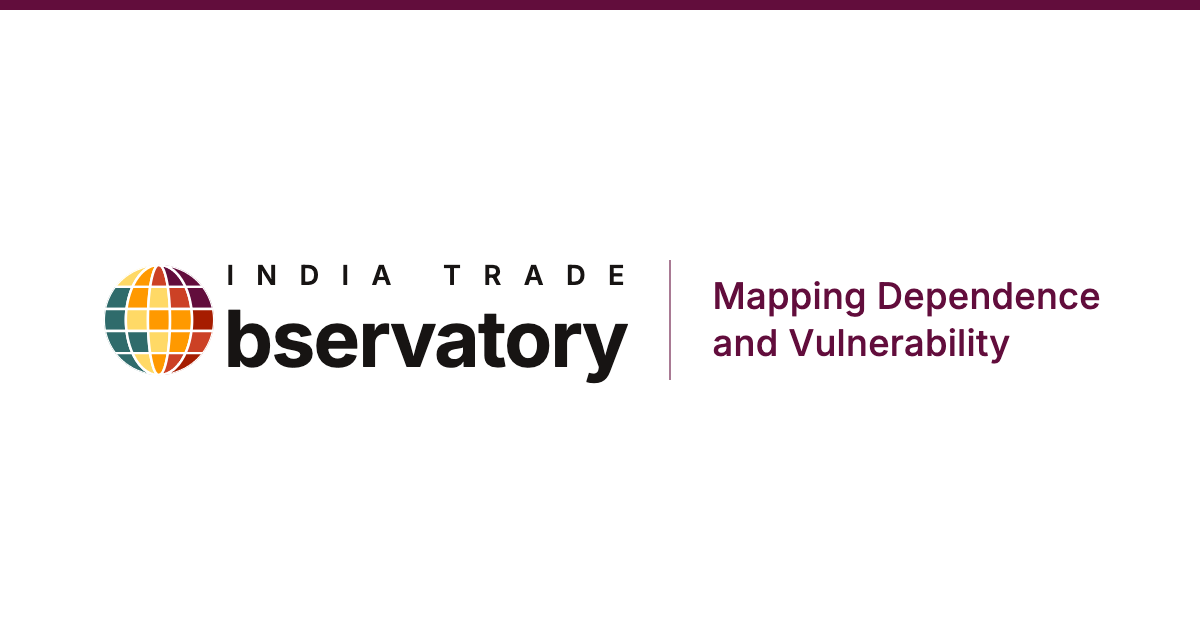
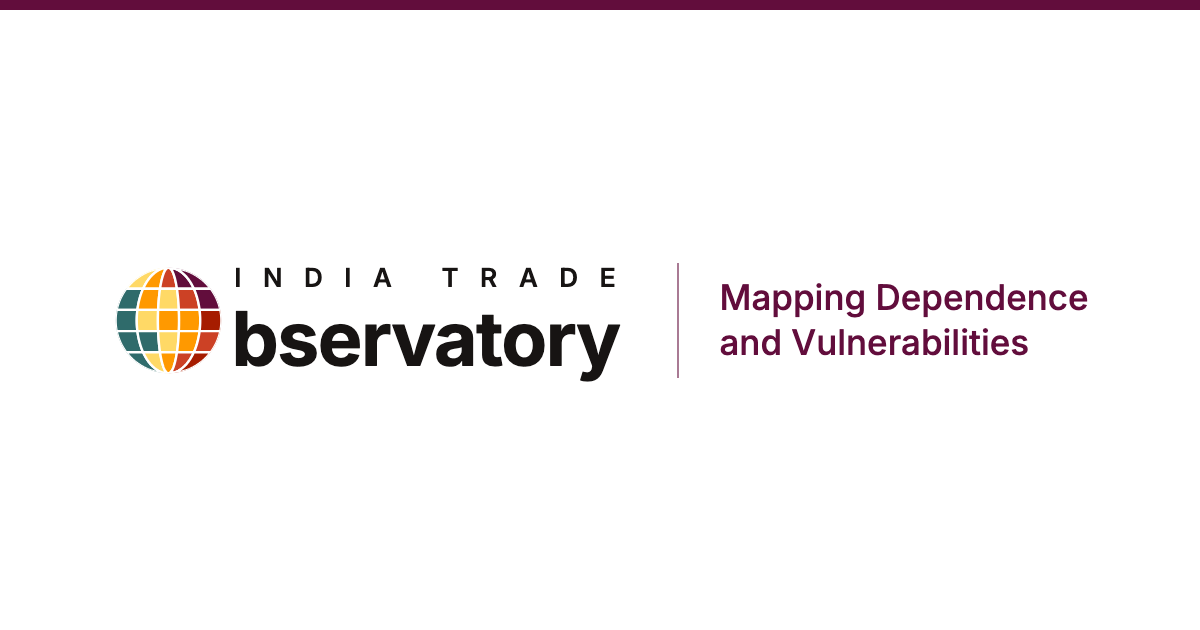
Simpler Matrix Builder, no corner diagonals, RIF after Dependence, new tagline
- Matrix Builder: shorter text, legend beside the matrix, row labels left-aligned
- Matrix corners drop the diagonal; arrows mark rows and columns
- Remove the grade-movement table; About sidebar keeps only About links
- Explorer columns follow the method's steps; RIF column drops the channel tag
- Tagline: Mapping Dependence and Vulnerabilities (header, meta, social image)

Changed region(s): [[0.0617, 0.4222, 0.5242, 0.6032], [0.555, 0.4222, 0.925, 0.6032], [0.37, 0.4222, 0.5242, 0.4524]]

diff --git a/index.html b/index.html
@@ -4,7 +4,7 @@
 <meta charset="utf-8">
 <meta name="viewport" content="width=device-width, initial-scale=1">
 <meta name="google-site-verification" content="IoENYTUO_sZUPHnm7L9wEyq4YKLa9hCeRD2Jo0gU4xk" />
-<title>India Trade Observatory: Mapping Dependence and Vulnerability</title>
+<title>India Trade Observatory: Mapping Dependence and Vulnerabilities</title>
 <meta name="description" content="Item-by-item map of India's trade dependence on China: where that dependence potentially renders India strategically or critically vulnerable, across 9,500+ HS8 imports, and options for de-risking. By Amit Kumar, Takshashila Institution.">
 <meta name="keywords" content="India China trade, India-China trade dependence, trade dependence, import dependence on China, trade vulnerability, strategic vulnerability, critical vulnerability, de-risking, de-risking India's trade with China, RIF-PCI, HS8">
 <meta name="author" content="Amit Kumar">
@@ -14,20 +14,20 @@
 <link rel="apple-touch-icon" href="img/apple-touch-icon.png">
 <link rel="canonical" href="https://indiatradeobservatory.amitkumar-ak.com/">
 <meta property="og:type" content="website">
-<meta property="og:title" content="India Trade Observatory: Mapping Dependence and Vulnerability">
+<meta property="og:title" content="India Trade Observatory: Mapping Dependence and Vulnerabilities">
 <meta property="og:description" content="Mapping India's dependence and vulnerabilities in trade with China, item by item, for crafting de-risking strategies.">
 <meta property="og:url" content="https://indiatradeobservatory.amitkumar-ak.com/">
 <meta property="og:site_name" content="India Trade Observatory">
 <meta property="og:image" content="https://indiatradeobservatory.amitkumar-ak.com/img/og-image.png">
 <meta property="og:image:width" content="1200">
 <meta property="og:image:height" content="630">
-<meta property="og:image:alt" content="India Trade Observatory: Mapping Dependence and Vulnerability. A globe of coloured cells forms the O of Observatory">
+<meta property="og:image:alt" content="India Trade Observatory: Mapping Dependence and Vulnerabilities. A globe of coloured cells forms the O of Observatory">
 <meta name="twitter:card" content="summary_large_image">
-<meta name="twitter:title" content="India Trade Observatory: Mapping Dependence and Vulnerability">
+<meta name="twitter:title" content="India Trade Observatory: Mapping Dependence and Vulnerabilities">
 <meta name="twitter:image" content="https://indiatradeobservatory.amitkumar-ak.com/img/og-image.png">
 <meta name="twitter:description" content="India's trade dependence on China, where it potentially renders India strategically or critically vulnerable, and de-risking options across every HS8 import.">
 <script type="application/ld+json">
-{"@context": "https://schema.org", "@type": "WebSite", "name": "India Trade Observatory", "alternateName": ["Observatory of India's Trade Dependence and Vulnerability", "India Trade Observatory: Mapping Dependence and Vulnerability"], "url": "https://indiatradeobservatory.amitkumar-ak.com/"}
+{"@context": "https://schema.org", "@type": "WebSite", "name": "India Trade Observatory", "alternateName": ["Observatory of India's Trade Dependence and Vulnerability", "India Trade Observatory: Mapping Dependence and Vulnerabilities"], "url": "https://indiatradeobservatory.amitkumar-ak.com/"}
 </script>
 <script type="application/ld+json">
 {"@context": "https://schema.org", "@type": "Dataset",
@@ -366,15 +366,15 @@ section > h2 { font-size: 19px; font-weight: 600; color: var(--wine); }
 .mb-hint { font-size: 13.5px; color: var(--ink-70); margin: 4px 0 10px; }
 table.mb-mx { border-collapse: collapse; min-width: 560px; }
 .mb-mx th { font-size: 12px; font-weight: 600; color: var(--ink-70); padding: 6px 8px; text-align: center; vertical-align: bottom; line-height: 1.3; }
-.mb-mx tbody th { text-align: right; vertical-align: middle; min-width: 120px; max-width: 170px; }
+.mb-mx tbody th { text-align: left; vertical-align: middle; min-width: 120px; max-width: 170px; }
 .mb-mx th.mb-h { border: 1px solid var(--paper); padding: 8px; }
 .mb-mx th.mb-nd { background: var(--deep); border: 1px dashed rgba(23,20,19,0.3); color: var(--ink-70); }
 .mb-mx td { border: 1px solid var(--paper); padding: 0; min-width: 104px; height: 74px; }
 .mb-mx td.mb-empty { background: var(--deep); color: var(--ink-50); text-align: center; font-size: 12px; }
-.mb-mx th.mb-corner { min-width: 150px; max-width: 190px; padding: 6px 8px; vertical-align: middle; background: linear-gradient(to top right, var(--deep) calc(50% - 0.6px), var(--ink-20) calc(50% - 0.6px), var(--ink-20) calc(50% + 0.6px), var(--deep) calc(50% + 0.6px)); border: 1px solid var(--paper); }
+.mb-mx th.mb-corner { min-width: 150px; max-width: 190px; padding: 8px 10px; vertical-align: middle; background: var(--deep); border: 1px solid var(--paper); }
 .mb-corner span { display: block; font-weight: 600; color: var(--ink); font-size: 12px; line-height: 1.25; text-wrap: balance; }
-.mb-corner .cx { text-align: right; padding: 0 0 14px 34px; }
-.mb-corner .cy { text-align: left; padding: 0 34px 0 0; }
+.mb-corner .cx { text-align: right; margin: 0 0 8px; }
+.mb-corner .cy { text-align: left; }
 .mb-h .h1, .mb-h .h2 { display: block; }
 .mb-h .h1 { text-wrap: balance; hyphens: none; }
 .mb-h .h2 { font-weight: 400; font-size: 11.5px; white-space: nowrap; opacity: 0.9; margin-top: 1px; }
@@ -389,6 +389,11 @@ table.mb-mx { border-collapse: collapse; min-width: 560px; }
 .mb-read .mb-kl { margin: 0 0 4px; font-weight: 600; }
 .mb-read ul { margin: 0; padding-left: 18px; }
 .mb-read li { margin: 2px 0; font-size: 13.5px; }
+.mb-wrap { display: flex; flex-wrap: wrap; align-items: flex-start; gap: 16px 24px; margin: 8px 0 16px; }
+.mb-wrap > .scroll-x { flex: 0 1 auto; min-width: 0; max-width: 100%; }
+.mb-wrap .mb-keys { flex: 1 1 170px; max-width: 280px; margin: 0; gap: 14px; }
+.mb-wrap .mb-key { flex-direction: column; flex-wrap: nowrap; gap: 5px; }
+.mb-wrap .mb-key .mb-kl { flex: none; }
 .mb-keys { margin: 12px 0 16px; display: grid; gap: 8px; }
 .mb-key { display: flex; flex-wrap: wrap; align-items: baseline; gap: 6px 16px; font-size: 12.5px; color: var(--ink-70); }
 .mb-key .mb-kl { flex: 0 0 100%; font-weight: 600; color: var(--ink); font-size: 12.5px; }
@@ -967,14 +972,23 @@ details.why > div { padding: 0 12px 2px; font-size: 13.5px; color: var(--ink-70)
   .sm-t { font-size: 15px; }
   nav.main { gap: 18px; }
 }
-table.gtr { border-collapse: collapse; min-width: 0; }
-table.gtr thead th.n { width: auto; min-width: 0; white-space: normal; font-size: 11.5px; line-height: 1.25; text-align: right; text-transform: none; letter-spacing: 0; padding: 6px 7px; }
-table.gtr tbody th { white-space: normal; min-width: 0; width: 150px; font-size: 12.5px; line-height: 1.3; }
-table.gtr td { padding: 6px 7px; }
-table.gtr th.mb-corner { min-width: 112px; }
-table.gtr thead th.n .gsw { display: block; margin: 0 0 5px auto; }
-table.gtr .tot { font-weight: 600; background: var(--deep); }
+/* Grade movement table: one type size and weight for every label, numbers centred */
+table.gtr { border-collapse: collapse; width: auto; min-width: 0; font-variant-numeric: tabular-nums; }
+table.gtr th, table.gtr td { border: 1px solid var(--ink-10); padding: 7px 8px; font-family: var(--sans); font-size: 12.5px; line-height: 1.3; letter-spacing: 0; text-transform: none; color: var(--ink); }
+table.gtr thead th { font-weight: 600; text-align: center; vertical-align: bottom; white-space: normal; min-width: 0; width: auto; border-top: 2px solid var(--ink); background: var(--paper); }
+table.gtr tbody th { font-weight: 600; text-align: left; vertical-align: middle; white-space: normal; width: 132px; min-width: 120px; background: var(--paper); }
+table.gtr td, table.gtr td.n { text-align: center; vertical-align: middle; white-space: nowrap; min-width: 62px; }
+table.gtr .gsw { display: inline-block; width: 10px; height: 10px; margin-right: 6px; vertical-align: -1px; }
+table.gtr thead th .gsw { display: block; margin: 0 auto 5px; }
+table.gtr td.same { font-weight: 600; background: var(--deep); }
+table.gtr td.up { background: var(--wine-soft); color: var(--wine); font-weight: 600; }
 table.gtr td.down { color: var(--ink-70); }
+table.gtr td.z { background: #fff; }
+table.gtr .tot, table.gtr tr.tot th, table.gtr tr.tot td { font-weight: 600; background: var(--deep); }
+table.gtr th.mb-corner { width: 132px; min-width: 120px; padding: 8px; vertical-align: middle; background: var(--deep); }
+table.gtr th.mb-corner span { display: block; padding: 0; font-size: 12px; font-weight: 600; line-height: 1.25; }
+table.gtr th.mb-corner .cx { text-align: right; margin: 0 0 8px; }
+table.gtr th.mb-corner .cy { text-align: left; }
 .cmp-pick { display: flex; flex-wrap: wrap; align-items: center; gap: 8px; margin: 4px 0 20px; }
 .cmp-pick > span { font-size: 13.5px; color: var(--ink-70); margin-right: 2px; }
 .axis-x { text-align: center; font-size: 12px; color: var(--ink-70); margin: 6px 0 0; }
@@ -1001,14 +1015,6 @@ table.gtr td.down { color: var(--ink-70); }
 .sbars .sbo { font-family: var(--mono); font-size: 10.5px; font-weight: 600; letter-spacing: 0.06em; text-transform: uppercase; color: var(--wine); text-align: right; }
 .sbars .aside .sbo { color: var(--ink-50); }
 @media (max-width: 760px) { .sbrow.sbars .sbar-row { grid-template-columns: minmax(0, 1fr) 110px; row-gap: 6px; } .sbars .sbl { grid-row: 1; } .sbars .sbt { grid-column: 1 / -1; grid-row: 3; } .sbars .sbn { grid-row: 1; } .sbars .sbo { grid-column: 2; grid-row: 2; } }
-table.gtr th, table.gtr td { border: 1px solid var(--ink-10); padding: 6px 7px; font-size: 13px; }
-table.gtr thead th { vertical-align: bottom; line-height: 1.3; text-wrap: balance; }
-table.gtr tbody th { text-align: left; font-weight: 600; white-space: normal; width: 128px; min-width: 110px; font-size: 12.5px; line-height: 1.3; }
-table.gtr .gsw { display: inline-block; width: 10px; height: 10px; margin-right: 6px; vertical-align: -1px; }
-table.gtr td.same { font-weight: 600; background: var(--deep); }
-table.gtr td.up { background: var(--wine-soft); color: var(--wine); font-weight: 600; }
-table.gtr td.z { background: #fff; }
-table.gtr th.mb-corner { min-width: 150px; padding: 6px 8px; background: linear-gradient(to top right, var(--deep) calc(50% - 0.6px), var(--ink-20) calc(50% - 0.6px), var(--ink-20) calc(50% + 0.6px), var(--deep) calc(50% + 0.6px)); }
 .vgrid { display: grid; grid-template-columns: 1fr 1fr; gap: 18px; margin: 20px 0 8px; }
 .vgrp { border: var(--rule); border-top: 4px solid var(--vc); }
 .vgrp .vhead { display: flex; flex-direction: column; padding: 12px 14px 10px; color: inherit; text-decoration: none; border-bottom: var(--rule); }
@@ -1218,12 +1224,11 @@ table.matrix.dmx td.flat b { font-size: 12px; font-weight: 500; }
 /* The wordmark keeps the text cut of Inter; only large headings and figures use the display cut */
 .w1, .w2 { font-optical-sizing: none; }
 /* Matrix corner: a diagonal splits the row label (scale, bottom left) from the column label (duration, top right) */
-table.matrix th.corner { position: relative; padding: 0; min-height: 64px;
-  background: linear-gradient(to top right, transparent calc(50% - 0.75px), rgba(23,20,19,0.6) 50%, transparent calc(50% + 0.75px)), var(--corner); }
-table.matrix th.corner .cx { position: absolute; font-size: 13px; font-weight: 600; line-height: 1.15; white-space: nowrap; }
+table.matrix th.corner { padding: 8px 9px; background: var(--corner); vertical-align: middle; }
+table.matrix th.corner .cx { display: block; position: static; font-size: 13px; font-weight: 600; line-height: 1.15; white-space: nowrap; }
 table.matrix th.corner .cx small { display: block; font-size: 10px; font-weight: 400; }
-table.matrix th.corner .cx-d { top: 8px; right: 9px; text-align: right; }
-table.matrix th.corner .cx-s { bottom: 8px; left: 9px; text-align: left; }
+table.matrix th.corner .cx-d { text-align: right; margin: 0 0 8px; }
+table.matrix th.corner .cx-s { text-align: left; }
 /* Substitutability outcomes: one row of six clickable boxes */
 .sbrow { display: grid; grid-template-columns: repeat(7, minmax(0, 1fr)); gap: 8px; margin: 18px 0 8px; }
 .sbrow .sb { background: var(--paper); border: var(--rule); border-top: 8px solid var(--bc); padding: 11px 11px 12px; text-align: left; cursor: pointer; display: flex; flex-direction: column; gap: 2px; font: inherit; color: inherit; min-width: 0; }
@@ -1349,7 +1354,7 @@ td.n .sub.ease .tier { margin-right: 6px; }
   <div class="wrap">
     <div class="brand">
       <div class="brand-row">
-      <div class="site-title"><a href="#overview" class="home-link" id="homeLink" aria-label="India Trade Observatory: Mapping Dependence and Vulnerability"><span class="mk"><img class="globe-o" src="img/globe-mark.svg" width="600" height="600" alt="" aria-hidden="true"><span class="nm"><span class="w0">India Trade</span><span class="w1">bservatory</span></span></span><span class="w2">Mapping Dependence<br>and Vulnerability</span></a></div>
+      <div class="site-title"><a href="#overview" class="home-link" id="homeLink" aria-label="India Trade Observatory: Mapping Dependence and Vulnerabilities"><span class="mk"><img class="globe-o" src="img/globe-mark.svg" width="600" height="600" alt="" aria-hidden="true"><span class="nm"><span class="w0">India Trade</span><span class="w1">bservatory</span></span></span><span class="w2">Mapping Dependence<br>and Vulnerabilities</span></a></div>
       </div>
     </div>
     <nav class="main" aria-label="Sections">
@@ -1814,7 +1819,8 @@ function ecTipHTML(el) {
     <h5>The line</h5>
     <p>Where China's share of world exports is ${TH.S_MIN}% or less, an item is set aside only at ${nf(line, 0)}% or less, about what one good year of export growth adds. These are actual exports, not spare capacity.</p>`;
 }
-const TBL_KEYS = () => ['hs8', 'name', 'china', 'd'].concat(SUP ? ['alt', 'cover'] : [], ['rif', 'pci', 'ubq']);
+// Columns follow the method's steps: Dependence, then RIF (Step 2), then Substitutability (Steps 3 and 4), then PCI and exporters
+const TBL_KEYS = () => ['hs8', 'name', 'china', 'd', 'rif'].concat(SUP ? ['alt', 'cover'] : [], ['pci', 'ubq']);
 function suppHTML(i) {
   const s = sup(i.hs6);
   if (!s) return '';
@@ -1847,7 +1853,7 @@ const COLS = {
   total: { h: 'Total (US$ mn)', hh: 'Total<br>(US$ mn)', n: 1, sort: (i, r) => r.t, cell: (i, r) => `<td class="n">${nf(r.t, 1)}</td>` },
   // Dependence as a small bar, Scale of Disruption as tier marks, complexity inside the verdict
   d:     { h: 'Dependence', n: 1, sort: (i, r) => r.d, cell: (i, r) => `<td class="n">${pct(r.d)}</td>` },
-  rif:   { h: 'RIF', rf: 1, n: 1, sort: (i, r) => r.rif, cell: (i, r) => `<td class="n"><span class="ease-v" data-rf="item" data-rif="${r.rif}" data-c="${r.c}" data-d="${r.d}" data-rc="${r.rc}" data-ch="${i.eu ? CHAN_L[i.eu] : ''}">${rifFmt(r.rif)}</span>${i.eu ? `<span class="sub chan">${CHAN_L[i.eu]}</span>` : ''}</td>` },
+  rif:   { h: 'RIF', rf: 1, n: 1, sort: (i, r) => r.rif, cell: (i, r) => `<td class="n"><span class="ease-v" data-rf="item" data-rif="${r.rif}" data-c="${r.c}" data-d="${r.d}" data-rc="${r.rc}" data-ch="${i.eu ? CHAN_L[i.eu] : ''}">${rifFmt(r.rif)}</span></td>` },
   // PCI value first, like the RIF value beside it; the verdict badge sits underneath
   pci:   { h: 'Complexity (PCI)', hh: 'PCI', tip: 'Sort by product complexity (PCI)', sort: i => i.pci ?? -99, cell: (i, r) => `<td>${pciFmt(i.pci)}${i.pciEst ? '<span class="sub">estimated</span>' : ''}</td>` },
   // China's share of global exports of the product, with the next-largest exporter beneath
@@ -2273,13 +2279,6 @@ function trendsHTML(y, py, part) {
     if (!b) return `${kick('Change over time · Which items moved')}
       <h1>Where did vulnerability grow, and in which items?</h1>
       <p class="lede">${FY[y]} is the earliest year in the Observatory, so there is no earlier year to compare it with. Choose a later year in the sidebar.</p>`;
-    const mv = {}; let upB = 0, dnB = 0;
-    for (const i of ITEMS) { const a = gOf(i, b), c = gOf(i, y); mv[a + '|' + c] = (mv[a + '|' + c] || 0) + 1; if (grank[c] < grank[a]) upB++; else if (grank[c] > grank[a]) dnB++; }
-    const rowT = r => GT.reduce((a, c) => a + (mv[r[0] + '|' + c[0]] || 0), 0), colT = c => GT.reduce((a, r) => a + (mv[r[0] + '|' + c[0]] || 0), 0);
-    const tbl = `<table class="data gtr"><thead><tr><th class="mb-corner"><span class="cx">${FY[y]} →</span><span class="cy">${FY[b]} ↓</span></th>${GT.map(g => `<th class="n">${sw(g)}<span>${g[3]}</span></th>`).join('')}<th class="n tot">Total</th></tr></thead><tbody>${
-      GT.map(r => `<tr><th>${sw(r)}${r[1]}</th>${GT.map(c => { const v = mv[r[0] + '|' + c[0]] || 0, cls = r[0] === c[0] ? 'same' : grank[c[0]] < grank[r[0]] ? 'up' : grank[c[0]] > grank[r[0]] ? 'down' : '';
-        return `<td class="n ${v ? cls : 'z'}">${v ? int(v) : ''}</td>`; }).join('')}<td class="n tot">${int(rowT(r))}</td></tr>`).join('')}
-      <tr class="tot"><th>Total</th>${GT.map(c => `<td class="n tot">${int(colT(c))}</td>`).join('')}<td class="n tot">${int(ITEMS.length)}</td></tr></tbody></table>`;
     const span = YEARS.slice(YEARS.indexOf(b), YEARS.indexOf(y) + 1);
     const persistB = ITEMS.filter(i => span.every(k => V(i, k))).sort((a, c) => c.y[y].rif - a.y[y].rif);
     const enteredB = ITEMS.filter(i => V(i, y) && !V(i, b)).sort((a, c) => c.y[y].rif - a.y[y].rif);
@@ -2288,9 +2287,8 @@ function trendsHTML(y, py, part) {
     const pick = `<div class="cmp-pick" role="group" aria-label="Year to compare with"><span>Compare ${FY[y]} with</span>${YEARS.slice(0, YEARS.indexOf(y)).reverse().map(k => `<a class="btn${k === b ? ' primary' : ''}" href="#overview?ch=9&base=${k}"${k === b ? ' aria-current="true"' : ''}>${FY[k]}${k === py ? ' (previous year)' : ''}</a>`).join('')}</div>`;
     return `${kick(`Change over time · ${FY[b]} to ${FY[y]}`)}
       <h1>Where did vulnerability grow, and in which items?</h1>
-      <p class="lede">This chapter follows individual items between two years: how they moved between grades, which stayed potentially vulnerable, and which became or stopped being vulnerable. It compares ${FY[y]}, the year selected in the sidebar, with ${FY[b]}${b === py ? ', the year before' : ''}. You can compare with any earlier year.</p>
+      <p class="lede">This chapter follows individual items between two years: which stayed potentially vulnerable, and which became or stopped being vulnerable. It compares ${FY[y]}, the year selected in the sidebar, with ${FY[b]}${b === py ? ', the year before' : ''}. You can compare with any earlier year.</p>
       ${pick}
-      <section class="tr-p"><h2>How did items move between grades?</h2><p class="vis-s">Each row takes the items in one grade in ${FY[b]}; the cells across the row show the grade each of them had in ${FY[y]}. Grey cells on the diagonal kept their grade. Wine cells, left of the diagonal, moved up towards Critical: ${int(upB)} items. Cells to the right of the diagonal moved down: ${int(dnB)} items.</p><div class="scroll-x">${tbl}</div></section>
       <section class="tr-p tr-wide"><h2>Persistent or new?</h2><p class="vis-s">Items exhibiting potential Strategic or Critical Vulnerability. Highest RIF first; select an item for its full record.</p>
         <div class="moves three">
           <div><h3>Vulnerable in every year from ${FY[b]} to ${FY[y]} <span>${int(persistB.length)} items</span></h3>${list(persistB, y, i => `${CAT[i.y[y].cat].short}`)}</div>
@@ -3329,17 +3327,17 @@ const MB_SETS = [
 const MB_IND = { rif: 'rif', d: 'd', c: 'china', t: 't', sw: 'alt', cv: 'cover', pci: 'pci', ubq: 'ubq', prod: 'prod' };
 const MB_PRESETS = [
   { id: 'p1', x: 'rif', y: 'cv', set: 'dep', t: 'Scale × Imports as % of non-China exports',
-    why: "How large the shock would be, against India's imports from China as a share of what every other country exports, one of the two measures of the Substitutability Test. Higher up and to the right are large shocks that other exporters could not cover quickly." },
+    why: "Higher up and further right are large shocks that other exporters could not readily cover." },
   { id: 'p2', x: 'rif', y: 'pci', set: 'dep', t: 'Scale × Complexity (PCI)',
-    why: "How large the shock would be, against the Product Complexity Index, one of the two measures of the Capability Gap Test. A PCI of 1.75 or more passes that test, and 1 or more is the second part of the Substitutability Test." },
+    why: "Higher up and further right are large shocks in products that are hard to make. A PCI of 1 or more passes Step 4; 1.75 or more passes the Capability Gap Test at Step 5." },
   { id: 'p3', x: 'rif', y: 'sw', set: 'dep', t: "Scale × China's share of world exports",
-    why: "How large the shock would be, against China's share of world exports, the other measure of the Substitutability Test. Above 30%, China is a major supplier to the whole world, which suggests alternatives are thin, and the item goes forward." },
+    why: "Higher up and further right are large shocks in products where China supplies much of the world. Above 30%, the item goes forward at Step 3." },
   { id: 'p4', x: 'rif', y: 'ubq', set: 'dep', t: 'Scale × Competitive exporters',
-    why: "How large the shock would be, against the number of countries that export the product competitively, the other measure of the Capability Gap Test. Five or fewer passes it. Lower on the chart means fewer exporters; this can flag items that PCI rates as simple, such as laptops and display modules." },
+    why: "Fewer exporters sit lower down. Five or fewer passes the Capability Gap Test, which can flag products that PCI rates as simple, such as laptops." },
   { id: 'p5', x: 'cv', y: 'pci', set: 'big', t: 'Imports as % of non-China exports × Complexity (PCI)',
-    why: "Two single measures side by side, for items with a meaningful shock: whether other exporters could cover what India buys from China, and how complex the product is. The top right holds items where both point to a hard-to-restore supply." },
+    why: "For items with a meaningful shock. The top right holds products that other exporters could not readily cover and that are hard to make." },
   { id: 'p6', x: 'c', y: 'd', set: 'dep', t: 'Imports from China × Dependence',
-    why: "RIF multiplies these two. The chart shows whether an item's RIF comes from the value of its imports from China, from its dependence, or from both." },
+    why: "RIF multiplies these two, so the chart shows whether an item's RIF comes from the value of its imports, its dependence, or both." },
 ];
 function mbSev(V, k) { if (k < 0) return -1; const f = V.fills[k]; if (f === MB_GREY) return 0; const c = V.fills.filter(x => x !== MB_GREY); return (c.indexOf(f) + 1) / c.length; }
 function mbBin(V, v) {
@@ -3395,11 +3393,11 @@ function mbKeysHTML(m, X, Y) {
   const col = m.col || 'y';
   const cells = col === 'n' ? `<div class="mb-key"><span class="mb-kl">Cell colour</span><span><i style="background:${mbMix('#620d3c', 0.25)}"></i>Fewer items</span><span><i style="background:#620d3c"></i>More items</span></div>`
     : col === 'x' ? band(X) : col === 'y' ? band(Y) : band(X) + band(Y);
-  return `<div class="mb-keys">${cells}<p class="mb-kn">Within each colour, darker cells hold more items.</p>
-    <div class="mb-key"><span class="mb-kl">Strip in each cell: grades of its items</span>${MB_GRADES.map(([, l, f]) => `<span><i style="background:${f}"></i>${l}</span>`).join('')}</div></div>`;
+  return `<div class="mb-keys">${cells}<p class="mb-kn">Darker cells hold more items.</p>
+    <div class="mb-key"><span class="mb-kl">Strip at the foot of each cell: grades of its items</span>${MB_GRADES.map(([, l, f]) => `<span><i style="background:${f}"></i>${l}</span>`).join('')}</div></div>`;
 }
 function mbListHTML(a, X, Y) {
-  if (!a) return '<p class="mb-hint">Select a cell to list its items.</p>';
+  if (!a) return '';
   const L = a.slice().sort((p, q) => R(q).rif - R(p).rif), top = L.slice(0, 100);
   return `<p class="mb-hint"><b>${int(L.length)}</b> items, ${usd(sumC(L))} from China, highest RIF first${L.length > 100 ? '; the first 100 are shown' : ''}. Select an item for its full record.</p>
     <div class="scroll-x"><table class="data mb-list"><thead><tr><th>HS8</th><th>Item</th><th>Grade</th><th class="n">${esc(X.short)}</th><th class="n">${esc(Y.short)}</th><th class="n">From China</th></tr></thead><tbody>
@@ -3471,9 +3469,8 @@ PAGES.builder = (app, side) => {
   app.innerHTML = `<article class="mb">
     <p class="kicker">Matrix Builder · ${FY[S.year]}</p>
     <h1>Put any two measures against each other</h1>
-    <p class="lede">Each step of the method uses its own measures. Choose two of them, one for each axis, to see how the items fall. The matrix bins each measure at the method's own thresholds; the bubble chart shows every item, sized by imports from China and coloured by grade.</p>
+    <p class="lede">Choose one measure for each axis to see how items fall. The matrix groups them at the method's thresholds; the bubble chart shows each item.</p>
     <div class="mb-ctl">
-      <label><span>Recommended pairing</span><select id="mbP"><option value="">Your own choice</option>${MB_PRESETS.map(p => `<option value="${p.id}"${pr && pr.id === p.id ? ' selected' : ''}>${esc(p.t)}</option>`).join('')}</select></label>
       <label><span>Across (x axis)</span><select id="mbX">${opt(m.x)}</select></label>
       <button type="button" class="btn" id="mbSwap" aria-label="Swap the axes">Swap ⇄</button>
       <label><span>Up (y axis)</span><select id="mbY">${opt(m.y)}</select></label>
@@ -3481,27 +3478,17 @@ PAGES.builder = (app, side) => {
       <label class="mb-set"><span>Items</span><select id="mbSet">${MB_SETS.map(([k, l]) => `<option value="${k}"${k === m.set ? ' selected' : ''}>${l}</option>`).join('')}</select></label>
     </div>
     ${pr ? `<p class="mb-hint mb-why2">${pr.why}</p>` : ''}
-    <p class="mb-hint mb-ind"><b>What the axes indicate.</b> ${esc(X.short)}: ${IND[MB_IND[m.x]]} ${esc(Y.short)}: ${IND[MB_IND[m.y]]}</p>
     <h2>Matrix</h2>
-    <p class="mb-hint">${int(L.length)} items, ${usd(sumC(L))} from China.</p>
-    <div class="mb-read"><p class="mb-kl">How to read the matrix</p><ul>
-      <li><b>Rows and columns</b> are the bands of the two measures, at the method's own thresholds: ${esc(X.short)} across, ${esc(Y.short)} up.</li>
-      <li><b>Each cell</b> gives the number of items in that pair of bands and their imports from China.</li>
-      <li><b>The colour</b> shows the band of ${m.col === 'n' ? 'neither measure: here it shows only the number of items' : m.col === 'x' ? `the across measure, ${esc(X.short)}` : m.col === 'both' ? 'the weaker of the two measures, since an item needs both to be a vulnerability' : `the up measure, ${esc(Y.short)}`}: grey below the threshold, then yellow, orange and reds to dark brown as the risk rises (RIF uses reds). The key is below the matrix.</li>
-      <li><b>The shade</b>: within each colour, darker cells hold more items.</li>
-      <li><b>The narrow bar</b> at the bottom of each cell splits its items by grade, in proportion: dark red for Critical, red for Strategic, teal and blue for the two kinds of Vulnerability, pink for Dependence (30% or more from China, not graded higher) and light grey for Others (below 30%, or not assessed).</li>
-      <li><b>Select a cell</b> to list its items.</li></ul></div>
-    ${mx.html}
-    ${mbKeysHTML(m, X, Y)}
+    <p class="mb-hint">${int(L.length)} items, ${usd(sumC(L))} from China. Each cell gives the number of items and their imports from China; select a cell to list its items.</p>
+    <div class="mb-wrap">${mx.html}${mbKeysHTML(m, X, Y)}</div>
     <div id="mbList">${mbListHTML(sel, X, Y)}</div>
     <h2>Bubble chart</h2>
     <p class="mb-hint" id="mbMiss"></p>
     <div class="chart-box mb-chart" id="mbChartBox"><canvas id="mbScatter"></canvas></div>
-    <p class="cap">Dashed lines mark the method's thresholds. Production share exists for 59 upstream lines only, and competitive exporters and PCI are missing for a few items; items without data for an axis appear under "No data" in the matrix and are left out of the chart.</p>
+    <p class="cap">Dashed lines mark the method's thresholds. Items without data for an axis are left out of the chart and appear under "No data" in the matrix; production share covers only 59 upstream lines.</p>
   </article>`;
   const miss = mbDraw(L, X, Y);
   $('#mbMiss').textContent = `${int(L.length - miss)} items shown${miss ? `; ${int(miss)} have no data for one of the two measures` : ''}. Select a bubble for the item's full record.`;
-  $('#mbP').addEventListener('change', e => { const p = MB_PRESETS.find(q => q.id === e.target.value); if (p) mbGo({ x: p.x, y: p.y, set: p.set }); });
   $('#mbX').addEventListener('change', e => mbGo({ x: e.target.value }));
   $('#mbY').addEventListener('change', e => mbGo({ y: e.target.value }));
   $('#mbSet').addEventListener('change', e => mbGo({ set: e.target.value }));
@@ -3547,9 +3534,9 @@ PAGES.methodology = (app, side) => {
 };
 
 /* ---------- About: the three concerns in India-China trade, and which one this Observatory addresses ---------- */
-const ABOUT_GO = [{ id: 'about', label: 'About this Observatory', href: '#about' }, { id: 'author', label: 'About the author', href: '#author' }, { id: 'story', label: 'Story map', href: '#methodology?s=story' }, { id: 'method', label: 'The method', href: '#methodology?s=about' }, { id: 'explorer', label: 'Vulnerability Explorer', href: '#explorer' }, { id: 'glance', label: 'At a Glance', href: '#overview' }];
+const ABOUT_GO = [{ id: 'about', label: 'About this Observatory', href: '#about' }, { id: 'author', label: 'About the author', href: '#author' }];
 PAGES.about = (app, side) => {
-  side.innerHTML = sideLinks('Go to', ABOUT_GO, 'about') + sideSelect([['Go to', ABOUT_GO]], 'about');
+  side.innerHTML = sideLinks('About', ABOUT_GO, 'about') + sideSelect([['About', ABOUT_GO]], 'about');
   // Vulnerabilities is the Observatory's own concern, so it opens first; the other two sit in the backdrop
   const strands = [
     { id: 'imbalance', n: 1, t: 'Trade imbalance', tag: 'Not covered here',
@@ -3600,7 +3587,7 @@ PAGES.about = (app, side) => {
 
 /* ---------- About the author ---------- */
 PAGES.author = (app, side) => {
-  side.innerHTML = sideLinks('Go to', ABOUT_GO, 'author') + sideSelect([['Go to', ABOUT_GO]], 'author');
+  side.innerHTML = sideLinks('About', ABOUT_GO, 'author') + sideSelect([['About', ABOUT_GO]], 'author');
   app.innerHTML = `<article class="prose sec-page author">
       <p class="kicker">About the author</p>
       <div class="au-row">
